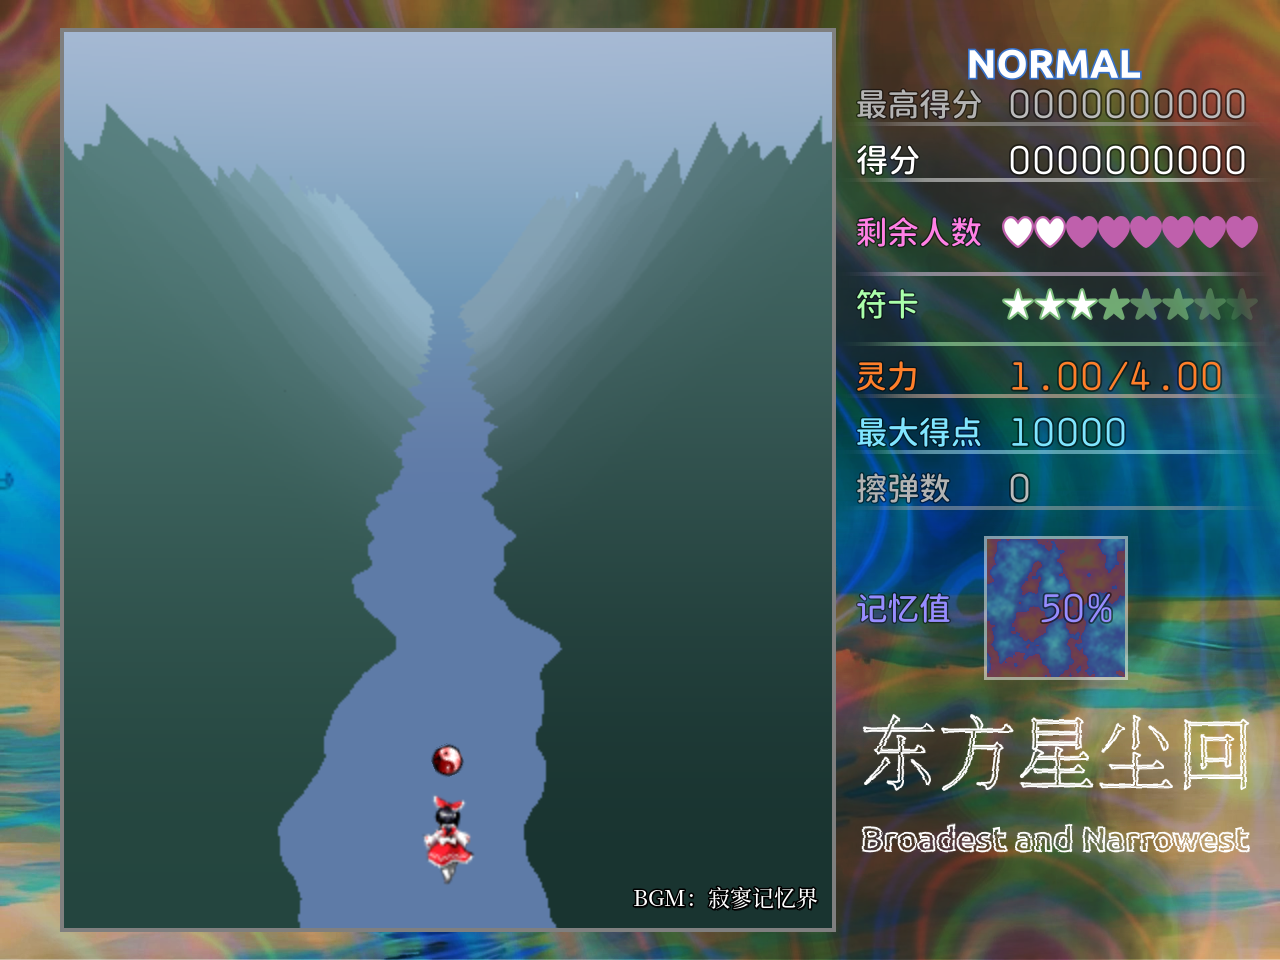
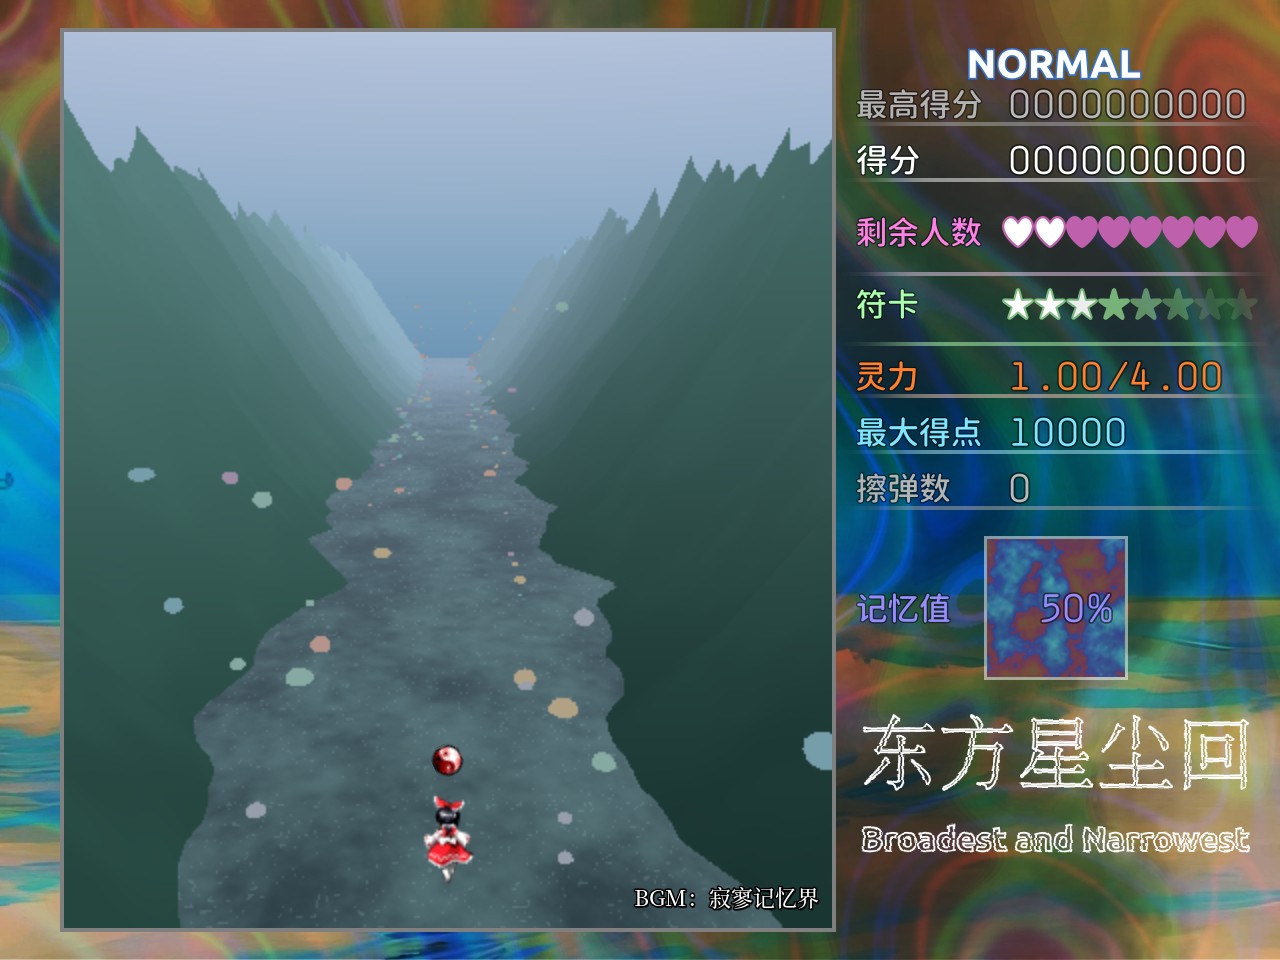
feat(background): add stage4 valley ground and colored stones

diff --git a/docs/BEST_PRACTICES_LOG.md b/docs/BEST_PRACTICES_LOG.md
@@ -124,7 +124,7 @@
 - **主菜单残留记忆值**：持久 HUD 的 `Memory` 是嵌套 CanvasLayer，只隐藏外层 GameUI 不会隐藏它；新增 `GameUI.set_hud_visible()` 同时同步 Memory 层，回归测试覆盖。
 - **再次播放录像**：回放结束页重播前设置 `_continuing_replay = true`，避免旧 GameScene `_exit_tree` 把刚启动的 ReplaySession stop 掉；同时 `_exit_tree` 不再在继续回放时 `PracticeSession.finish()`，否则符卡练习录像会被清空、新场景退回普通 Stage 1。
 - **回放水印渐隐**：REPLAY 标的呼吸 tween 会每帧重写 alpha，HUD 统一淡出/隐藏时先停掉它；回归测试覆盖 `set_hud_alpha(0)` 时标也归零。
-- **Stage4 山谷背景原型**：新增 `stage04_valley_sky.tscn`（无限山谷 + 暗色远山 + SkyDome 微彩天空），Stage04 暂时切到该背景；天空用 unshaded 天穹材质绕开 SubViewport 环境 sky 不生效的问题。按作者反馈移除谷底/森林线、天空改竖直色带避免接缝；随后移除 FarRidge，改为天空漫射光 + 山壁距离渐隐，让谷道尽头留空；山壁按高度接收冷色天光，避免整片死黑。注意 shader 注释必须用 `//`，误用 `##` 会导致整片山谷编译失败不渲染。山壁宽条纹来自 6 列顶点上的顶点色/法线插值，已把颜色与天光改为屏幕纵向渐变，避免三角面带。
+- **Stage4 山谷背景原型**：新增 `stage04_valley_sky.tscn`（无限山谷 + 暗色远山 + SkyDome 微彩天空），Stage04 暂时切到该背景；天空用 unshaded 天穹材质绕开 SubViewport 环境 sky 不生效的问题。按作者反馈移除谷底/森林线、天空改竖直色带避免接缝；随后移除 FarRidge，改为天空漫射光 + 山壁距离渐隐，让谷道尽头留空；山壁按高度接收冷色天光，避免整片死黑。注意 shader 注释必须用 `//`，误用 `##` 会导致整片山谷编译失败不渲染。山壁宽条纹来自 6 列顶点上的顶点色/法线插值，已把颜色与天光改为屏幕纵向渐变，避免三角面带。谷底加了一整块雾化湿石地面 + MultiMesh 彩色石块，谷宽/镜头也放宽压低，先给整个谷一个可读的落脚面。
 - **回放水印**：GameUI 从 `front02.png` 的 `(64,416,156,32)` 切出 REPLAY 标，放在场地中心（448,480），仅 `ReplaySession.is_playing()` 时显示；alpha 在 0.10–0.24 间 1.2s 呼吸。
 - **HUD 淡出 freed object**：`set_hud_alpha` 原来先 `as CanvasItem` 再判有效，节点被场景释放时会报 cast freed object；改为先 `is_instance_valid` 并从缓存剔除，再转换。
 - **暂停页字体**：去掉暂停菜单所有 Label 的黑色描边（标题/副标题/选项/确认面板），文字直接压在框内模糊画面上。
